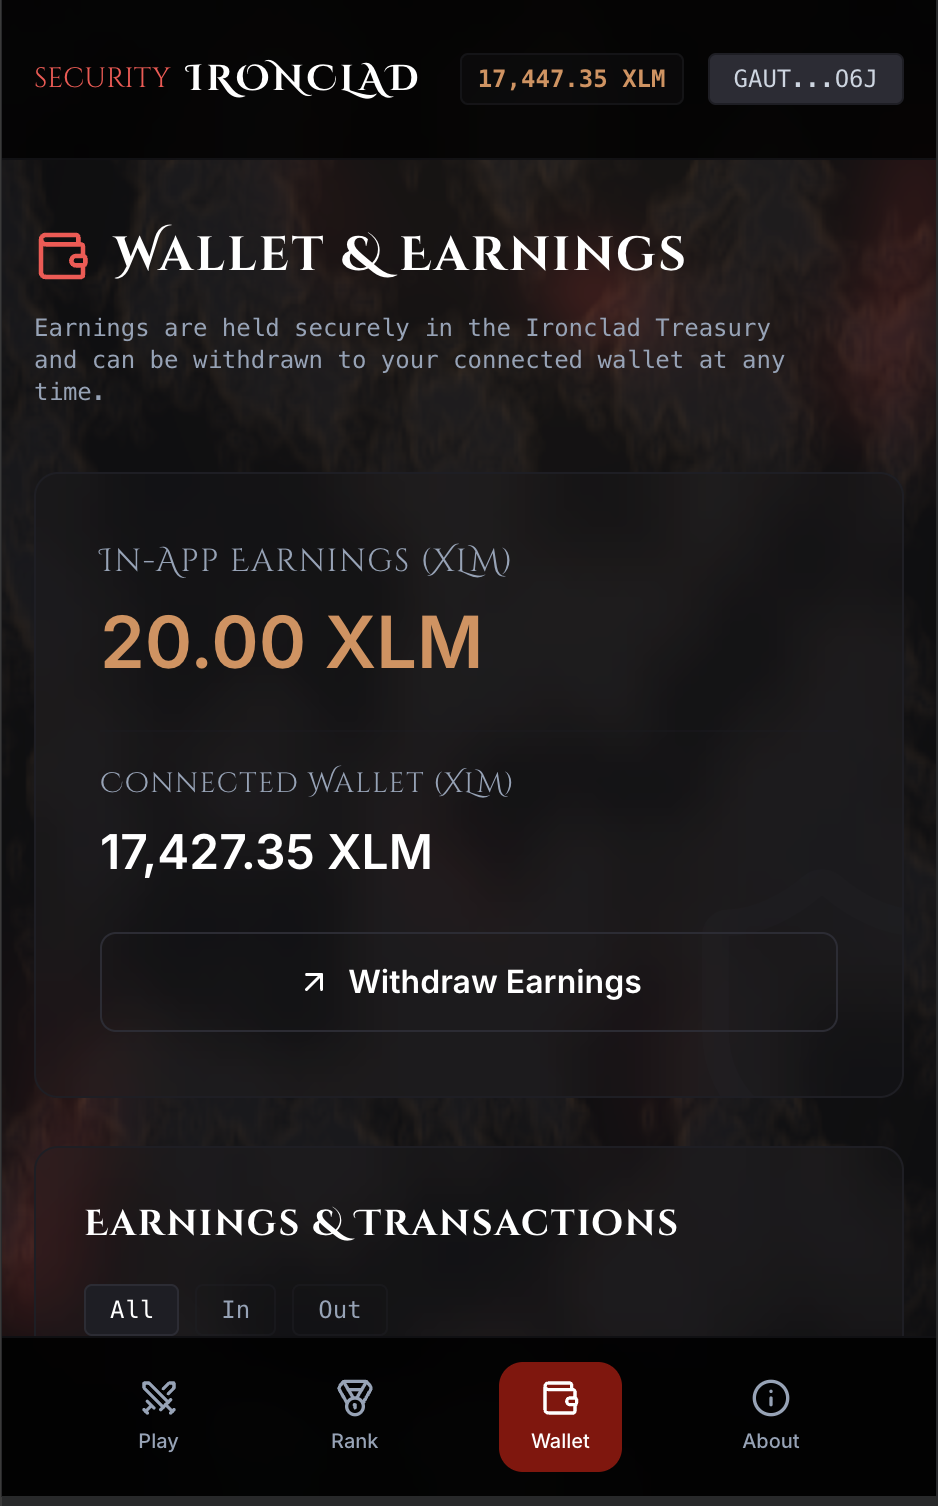
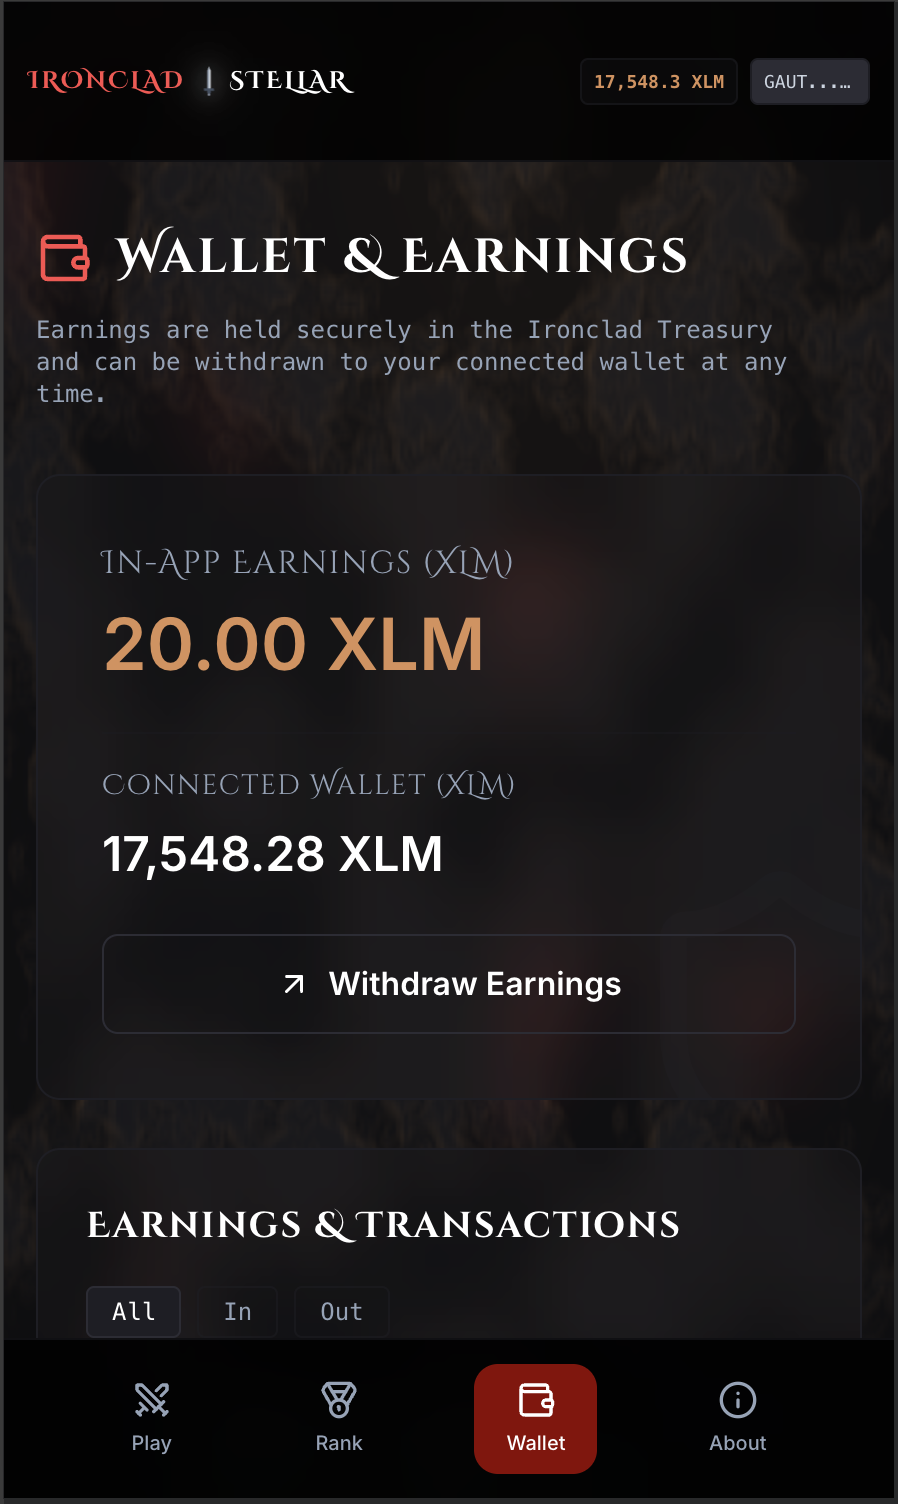
feat: add multi-wallet support, fix mobile UI and update documentation

diff --git a/frontend/src/App.tsx b/frontend/src/App.tsx
@@ -1,6 +1,9 @@
 import { useState, useEffect } from 'react';
 import { StellarWalletsKit, Networks } from '@creit.tech/stellar-wallets-kit';
-import { FreighterModule, FREIGHTER_ID } from '@creit.tech/stellar-wallets-kit/modules/freighter';
+import { FreighterModule } from '@creit.tech/stellar-wallets-kit/modules/freighter';
+import { AlbedoModule } from '@creit.tech/stellar-wallets-kit/modules/albedo';
+import { xBullModule } from '@creit.tech/stellar-wallets-kit/modules/xbull';
+import { RabetModule } from '@creit.tech/stellar-wallets-kit/modules/rabet';
 import { Swords, Medal, Wallet, Info } from 'lucide-react';
 import { GameStateProvider, useGameState } from './context/GameState';
 import BloodIronShader from './components/BloodIronShader';
@@ -21,9 +24,15 @@ function AppContent() {
   
   useEffect(() => {
     if (!isKitInitialized) {
-      StellarWalletsKit.init({ modules: [new FreighterModule()] });
+      StellarWalletsKit.init({ 
+        modules: [
+          new FreighterModule(),
+          new AlbedoModule(),
+          new xBullModule(),
+          new RabetModule()
+        ] 
+      });
       StellarWalletsKit.setNetwork(Networks.TESTNET);
-      StellarWalletsKit.setWallet(FREIGHTER_ID);
       isKitInitialized = true;
     }
   }, []);
@@ -84,22 +93,30 @@ function AppContent() {
         </div>
       </header>
 
-      <header className="fixed top-0 left-0 right-0 h-20 bg-black/80 backdrop-blur-md border-b border-forge-iron/50 z-50 flex items-center justify-between px-4 lg:px-8 md:hidden">
-        <div className="flex items-center gap-2">
-          <span className="text-forge-bloodLight font-cinematic text-sm">security</span>
-          <span className="text-white font-bold tracking-widest text-lg font-cinematic">IRONCLAD</span>
+      <header className="fixed top-0 left-0 right-0 h-20 bg-black/80 backdrop-blur-md border-b border-forge-iron/50 z-50 flex items-center justify-between px-3 lg:px-8 md:hidden">
+        <div className="flex items-center gap-1.5 shrink-0">
+          <span className="text-forge-bloodLight font-bold tracking-widest text-xs sm:text-sm font-cinematic">IRONCLAD</span>
+          <span className="text-white font-bold tracking-widest text-xs sm:text-sm font-cinematic flex items-center gap-1">
+            <svg width="8" height="14" viewBox="0 0 24 48" className="animate-sword-shine mx-0.5">
+              <path d="M12 0 L15 8 L15 36 L12 40 L9 36 L9 8 Z" fill="#e2e8f0" />
+              <path d="M12 0 L9 8 L9 36 L12 40 Z" fill="#94a3b8" />
+              <path d="M4 36 L20 36 L20 40 L15 40 L15 44 L9 44 L9 40 L4 40 Z" fill="#475569" />
+              <circle cx="12" cy="46" r="2" fill="#94a3b8" />
+            </svg> 
+            STELLAR
+          </span>
         </div>
         {publicKey ? (
-          <div className="flex items-center gap-3">
-            <span className="text-forge-copperGlow font-bold text-xs font-mono bg-forge-iron/20 px-2 py-1 rounded border border-forge-iron/50">
-              {parseFloat(walletXLM).toLocaleString('en-US', {minimumFractionDigits: 2, maximumFractionDigits: 2})} XLM
+          <div className="flex items-center gap-1.5 min-w-0">
+            <span className="text-forge-copperGlow font-bold text-[9px] sm:text-[10px] font-mono bg-forge-iron/20 px-1.5 py-1 rounded border border-forge-iron/50 whitespace-nowrap">
+              {parseFloat(walletXLM).toLocaleString('en-US', {minimumFractionDigits: 1, maximumFractionDigits: 1})} XLM
             </span>
-            <button onClick={disconnectWallet} title="Click to disconnect" className="px-3 py-1 border border-forge-iron rounded bg-forge-ironLight text-xs font-mono text-slate-300 hover:border-forge-blood transition-colors cursor-pointer">
+            <button onClick={disconnectWallet} title="Click to disconnect" className="px-1.5 py-1 border border-forge-iron rounded bg-forge-ironLight text-[9px] sm:text-[10px] font-mono text-slate-300 hover:border-forge-blood transition-colors cursor-pointer truncate max-w-[60px] sm:max-w-[80px]">
               {formatAddress(publicKey)}
             </button>
           </div>
         ) : (
-          <button onClick={connectWallet} className="text-xs text-forge-bloodLight font-bold border border-forge-bloodLight px-2 py-1 rounded">
+          <button onClick={connectWallet} className="text-[10px] sm:text-xs text-forge-bloodLight font-bold border border-forge-bloodLight px-2 py-1 rounded whitespace-nowrap shrink-0">
             Connect
           </button>
         )}

diff --git a/frontend/src/context/GameState.tsx b/frontend/src/context/GameState.tsx
@@ -100,7 +100,7 @@ export const GameStateProvider: React.FC<{ children: React.ReactNode }> = ({ chi
   const connectWallet = async () => {
     try {
       const { StellarWalletsKit } = await import('@creit.tech/stellar-wallets-kit');
-      const { address } = await StellarWalletsKit.fetchAddress();
+      const { address } = await StellarWalletsKit.authModal();
       setPublicKey(address);
       localStorage.setItem('forge_wallet', address);
     } catch (error) {

diff --git a/README.md b/README.md
@@ -42,20 +42,67 @@ We solve this by introducing a high-stakes, hyper-gamified learning environment:
 
 ---
 
-## 🏆 Orange Belt Requirements Mapping
+## 🏆 Stellar Belt Challenge Submission Checklist
 
-| Requirement | Implementation |
-|-------------|----------------|
-| **Advanced Soroban Smart Contracts** | Implemented custom persistent storage for Question states, High Scores, and a complex on-chain descending bubble-sort algorithm for the Leaderboard. |
-| **Inter-contract communication** | The `forge-core` contract auto-invokes the native Stellar Asset Contract to seamlessly handle the transfer of XLM when entry fees are paid natively via the `pay_entry_fee` function. |
-| **Real-time events** | The smart contract emits Soroban events for `enter` (paying fees), `correct` (answering questions), and `leader` (breaking into the high scores). These are polled by the frontend. |
-| **Production transaction UI** | Fully optimized UX for fetching data, paying entry fees, submitting batches, and confirming transactions. Responsive layouts for both Desktop and Mobile viewports. |
-| **StellarWalletsKit integration** | Implemented multi-wallet (Freighter) connectivity using the `@creit.tech/stellar-wallets-kit` bridging capabilities. |
-| **Feature-based architecture** | Strictly separated Vite React frontend, `components/`, `data/`, global `context/`, and `lib/` for XDR and contract wrappers. |
+### ⚪️ Level 1 - White Belt Submission
+
+| Requirement | Status & Implementation Details |
+| :--- | :--- |
+| **Wallet Setup** | ✅ Integrated StellarWalletsKit exclusively on Testnet |
+| **Wallet Connection** | ✅ Unified UI component for seamless connect/disconnect |
+| **Balance Handling** | ✅ Fetches and clearly displays XLM balance on dashboard and mobile |
+| **Transaction Flow** | ✅ UI shows success/failure states when paying entry fees or submitting answers |
+| **Development Standards** | ✅ High-quality UI, fluid Framer Motion animations, and error handling |
+| **Required Deliverables** | ✅ Repo, README, Setup instructions, and 4 required Screenshots |
+
+### 🟡 Level 2 - Yellow Belt Submission
+
+| Requirement | Status & Implementation Details |
+| :--- | :--- |
+| **3 Error Types Handled** | ✅ Wallet rejection, Quiz submission failures, Balance insufficiencies |
+| **Contract Deployed** | ✅ `forge-core` Soroban contract deployed on Testnet |
+| **Contract Called** | ✅ Frontend successfully calls the deployed smart contracts for entry fees and scoring |
+| **Tx Status Visible** | ✅ UI models and toasts confirm on-chain execution for paying and playing |
+| **Meaningful Commits** | ✅ Repository contains robust and meaningful commit history |
+| **Deliverable Met** | ✅ Multi-wallet app with deployed contract and gamified mechanics |
+| **Required Deliverables** | ✅ Live demo, Multi-wallet screenshot, Verifiable Tx Hash |
+
+### 🟠 Level 3 - Orange Belt Submission
+
+| Requirement | Status & Implementation Details |
+| :--- | :--- |
+| **Advanced Contracts** | ✅ Persistent storage for Question states, High Scores, and a complex on-chain descending bubble-sort algorithm for the Leaderboard. |
+| **Inter-Contract Comm** | ✅ The `forge-core` contract auto-invokes the native Stellar Asset Contract to handle XLM transfers natively. |
+| **Event Streaming** | ✅ The smart contract emits Soroban events (`enter`, `correct`, `leader`). |
+| **Production transaction UI** | ✅ Fully optimized UX for fetching data, paying fees, and submitting batches. |
+| **StellarWalletsKit integration** | ✅ Implemented multi-wallet (Freighter, Albedo, xBull, Rabet) connectivity using the `@creit.tech/stellar-wallets-kit`. |
+| **Feature-based architecture** | ✅ Strictly separated Vite React frontend, components, contexts, and lib for XDR. |
+
+---
+
+## 🏗️ High-Level System Architecture
+
+```mermaid
+graph TD
+    User([Player / Challenger]) -->|Interacts| UI[React Vite Frontend]
+    UI -->|Connects Wallet| SWK[StellarWalletsKit]
+    UI -->|Reads/Submits Txs| RPC[Soroban RPC]
+    
+    subgraph Stellar Network [Stellar Testnet]
+        RPC -->|Invokes| Contract[Forge Core Contract]
+        Contract -->|Cross-Contract Call| NativeAsset[Stellar Native Asset Contract]
+    end
+```
 
 ---
 
 ## 📸 Interface Showcase
+
+### 🧰 Multi-Wallet Support
+*Seamlessly connect using your preferred Stellar wallet via StellarWalletsKit. We support Freighter, Albedo, xBull, and Rabet out of the box.*
+<div align="center">
+  <img src="./demo-img/multi-wallet.png" alt="Multi Wallet Options" width="800"/>
+</div>
 
 ### Desktop Experience
 
@@ -77,7 +124,7 @@ We solve this by introducing a high-stakes, hyper-gamified learning environment:
 *Our dark forge aesthetic seamlessly adapts to any mobile device.*
 
 <div style="display: flex; gap: 10px;">
-  <img src="./demo-img/mobile-ui-1.png" alt="Mobile Dashboard" width="48%">
+  <img src="./demo-img/mobille-ui-1.png" alt="Mobile Dashboard" width="48%">
   <img src="./demo-img/mobile-ui-2.png" alt="Mobile Quizzes" width="48%">
 </div>
 
@@ -165,7 +212,15 @@ DecentralizedQuizApp-2.0/
 *   Node.js 20+
 *   Cargo + Rust Toolchain (with `wasm32-unknown-unknown` target)
 *   Soroban CLI
-*   Freighter Wallet extension installed
+*   Freighter Wallet extension installed (or Albedo/xBull/Rabet)
+
+### ⚙️ Environment Variables
+Create a `.env` file in the `frontend` directory:
+```env
+VITE_SOROBAN_RPC_URL="https://soroban-testnet.stellar.org"
+VITE_SOROBAN_NETWORK_PASSPHRASE="Test SDF Network ; September 2015"
+VITE_FORGE_CORE_CONTRACT_ID="CASYXS2TY4HMNTQQ53R5AKNJCMR3LCDLLQBAV4TTR6U4JELZM24J6VC4"
+```
 
 ### 🛠️ Step-by-Step Setup
 
@@ -198,6 +253,15 @@ DecentralizedQuizApp-2.0/
    chmod +x scripts/deploy.sh
    ./scripts/deploy.sh
    ```
+
+---
+
+## 🔒 Security Considerations
+
+- **Secure Treasury Transfers**: XLM entry fees are strictly verified via native token authorization before attempting any quiz logic, preventing bypass attacks.
+- **On-Chain Leaderboard Sorting**: The high-score algorithm sorts natively within the contract, meaning no external script can spoof or manipulate top rank submissions.
+- **Wallet Security**: Uses `StellarWalletsKit` to ensure private keys never touch the DOM or React state. All signing is delegated entirely to the user's secure wallet extension.
+- **Reentrancy Protection**: State is carefully modified and validated in sequence during quiz submissions, limiting surface areas for reentrancy attacks.
 
 ---
 